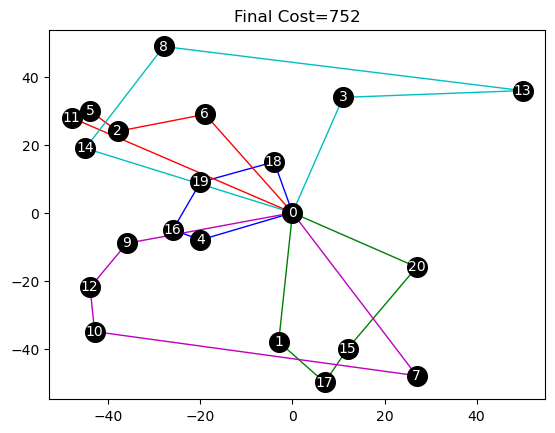
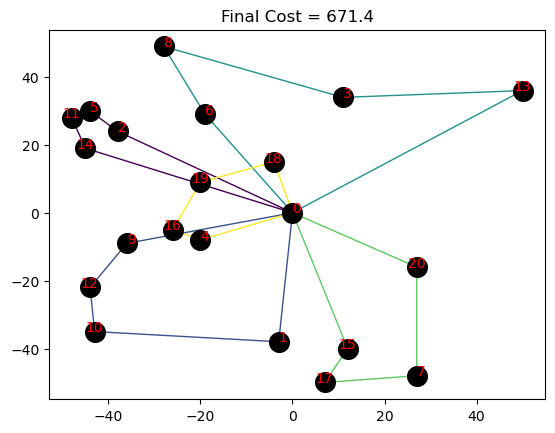
method working for instance 03

diff --git a/src/solver/column_generation/pricing_problem.py b/src/solver/column_generation/pricing_problem.py
@@ -77,12 +77,12 @@ class PricingProblem:
         duals_col = np.zeros((n + 1, 1))
         for id_client, dual_value in self.client_duals.items():
             duals_col[id_client, 0] = dual_value
-        print(f"duals_col:\n{duals_col}")
-        print(f"\ncost before duals:\n{cost}")
+        # print(f"duals_col:\n{duals_col}")
+        # print(f"\ncost before duals:\n{cost}")
         cost -= duals_col
         # From node i you cant go to node i
         np.fill_diagonal(cost, np.inf)
-        print(f"\ncost after duals:\n{cost}")
+        # print(f"\ncost after duals:\n{cost}")
 
         # Resources (demand of each client)
         times = np.zeros((n + 1, n + 1))
@@ -91,7 +91,7 @@ class PricingProblem:
         times += demands
         # From node i you cant go to node i
         np.fill_diagonal(times, np.inf)
-        print(f"\ntimes:\n{times}")
+        # print(f"\ntimes:\n{times}")
 
         elementary_path_problem = ESPCC(costs=cost, times=times, T=self.capacity, source=0, target=n)
         

diff --git a/src/solver/column_generation/espcc.py b/src/solver/column_generation/espcc.py
@@ -129,9 +129,9 @@ class ESPCC:
                 if dist_ij != np.inf:
                     G.add_edge(name_i, name_j, weight = dist_ij, res_cost = np.asarray([0, time_ij]))
         
-        print(f"\nEdges in the ESPCC:")
-        for edge in G.edges(data=True):
-            print(edge)
+        # print(f"\nEdges in the ESPCC:")
+        # for edge in G.edges(data=True):
+        #     print(edge)
             
         algorithm = BiDirectional(G=G, max_res=[self.T, self.T], min_res=[0, 0], elementary=True)
         algorithm.run()

diff --git a/src/main.py b/src/main.py
@@ -18,10 +18,10 @@ if __name__ == "__main__":
     # )
 
     # Solve
-    instance = "02"
+    instance = "03"
     instance_folder = os.path.join(FOLDER_INSTANCES, instance)
     filepath = os.path.join(instance_folder, instance) + ".json"
     data = CVRP(filepath)
     solver = SolverColumnGeneration(
-        instance=data, folder=instance_folder, max_iterations=20
+        instance=data, folder=instance_folder, max_iterations=100
     )

diff --git a/src/solver/column_generation/master_problem.py b/src/solver/column_generation/master_problem.py
@@ -123,7 +123,7 @@ class MasterProblem:
         # for i, con in enumerate(self.model.getConstrs()):
         #     print(f"\n{con}:\n{self.model.getRow(con)} {con.Sense} {con.RHS}")
 
-        self._print_routes()
+        #self._print_routes()
 
     def _add_variables(self, is_linear: bool):
         """Add the variables of the model:
